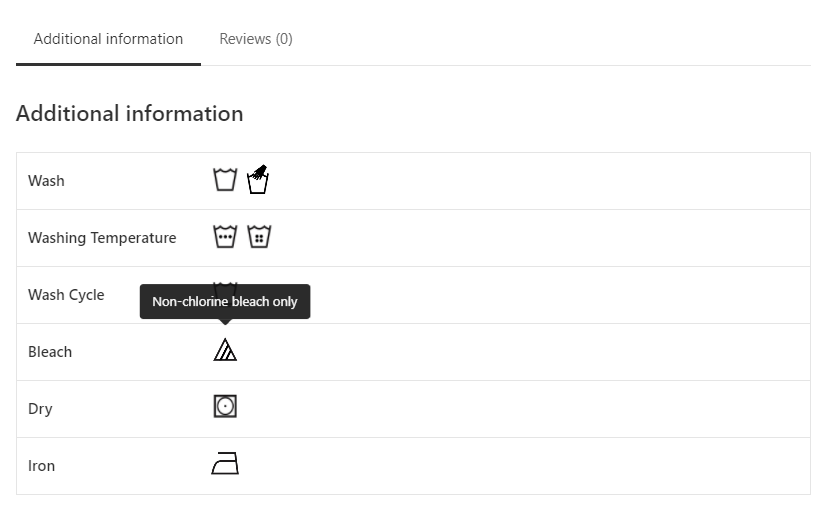
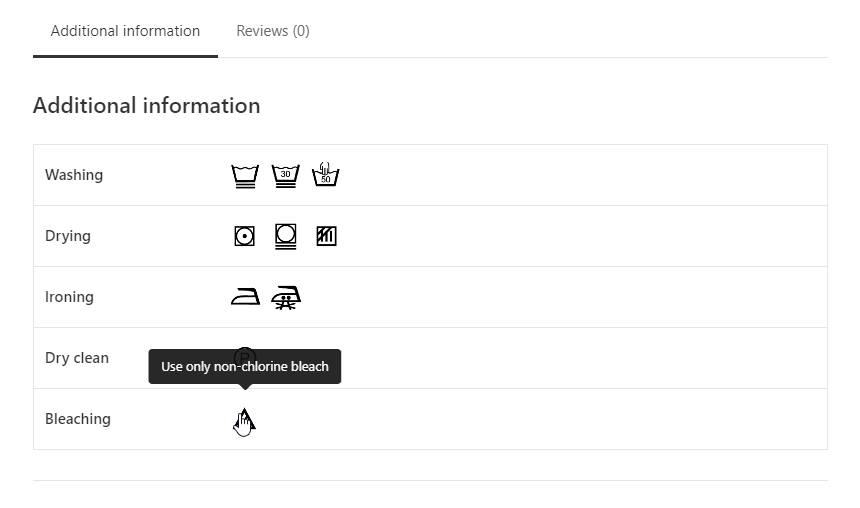
2.0.0 - New pictograms, more choices

diff --git a/assets/css/wcsfw.css b/assets/css/wcsfw.css
@@ -2,14 +2,14 @@
     width: 180px;
 }
 .wcsfw-symbol-btn {
-    background: none;
-    color: inherit;
-    border: none;
-    padding: 0;
-    font: inherit;
-    cursor: pointer;
-    outline: inherit;
+    background: none !important;
+    color: inherit !important;
+    border: none !important;
+    padding: 0 !important;
+    font: inherit !important;
+    cursor: pointer !important;
+    outline: inherit !important;
 }
 .wcsfw-symbol-img {
-    height: 34px;
+    height: 38px;
 }

diff --git a/wash-care-symbols-for-woocommerce.php b/wash-care-symbols-for-woocommerce.php
@@ -33,69 +33,108 @@ class WashCareSymbolsForWooCommerce {
 		 * Multidimensional array with all the choices, labels, and all necessary informations for the fields
 		 */
 		$this->values = [
-			'wcsfw_wash'         => [
-				'label'       => __( 'Wash', 'wcsfw' ),
-				'description' => __( 'Wash', 'wcsfw' ),
+			'wcsfw_washing'   => [
+				'label'       => __( 'Washing', 'wcsfw' ),
+				'description' => __( 'Washing', 'wcsfw' ),
 				'choices'     => [
-					'machine_wash' => __( 'Machine wash', 'wcsfw' ),
-					'hand_wash'    => __( 'Hand wash', 'wcsfw' ),
-					'do_not_wash'  => __( 'Do not wash', 'wcsfw' ),
+					'wash_1'  => __( 'Machine wash, gentle / delicate', 'wcsfw' ),
+					'wash_2'  => __( 'Machine wash, permanent press / wrinkle resistant', 'wcsfw' ),
+					'wash_3'  => __( 'Machine wash, regular / normal', 'wcsfw' ),
+					'wash_4'  => __( 'Do not wash', 'wcsfw' ),
+					'wash_5'  => __( 'Hand wash only', 'wcsfw' ),
+					'wash_6'  => __( 'Machine wash, gentle / delicate, 30 degrees C (85 degrees F)', 'wcsfw' ),
+					'wash_7'  => __( 'Machine wash, permanent press / wrinkle resistant, 30 degrees C (85 degrees F)', 'wcsfw' ),
+					'wash_8'  => __( 'Machine was h, regular / normal, 30 degrees C (85 degrees F)', 'wcsfw' ),
+					'wash_9'  => __( 'Machine wash, gentle / delicate, 40 degrees C (105 degrees F)', 'wcsfw' ),
+					'wash_10' => __( 'Machine wash, permanent press, 40 degrees C (105 degrees F)', 'wcsfw' ),
+					'wash_11' => __( 'Machine wash, regular / normal, 40 degrees C (105 degrees F)', 'wcsfw' ),
+					'wash_12' => __( 'Machine wash, gentle / delicate, 50 degrees C (120 degrees F)', 'wcsfw' ),
+					'wash_13' => __( 'Machine wash, permanent press, 50 degrees C (120 degrees F)', 'wcsfw' ),
+					'wash_14' => __( 'Machine wash, regular / normal, 50 degrees C (120 degrees F)', 'wcsfw' ),
+					'wash_15' => __( 'Machine wash, gentle / delicate, 60 degrees C (140 degrees F)', 'wcsfw' ),
+					'wash_16' => __( 'Machine wash, permanent press, 60 degrees C (140 degrees F)', 'wcsfw' ),
+					'wash_17' => __( 'Machine wash, regular / normal, 60 degrees C (140 degrees F)', 'wcsfw' ),
+					'wash_18' => __( 'Machine wash, gentle / delicate, 70 degrees C (160 degrees F)', 'wcsfw' ),
+					'wash_19' => __( 'Machine wash, permanent press, 70 degrees C (160 degrees F)', 'wcsfw' ),
+					'wash_20' => __( 'Machine wash, regular / normal, 70 degrees C (160 degrees F)', 'wcsfw' ),
+					'wash_21' => __( 'Machine wash, gentle / delicate, 95 degrees C (200 degrees F)', 'wcsfw' ),
+					'wash_22' => __( 'Machine wash, permanent press, 95 degrees C (200 degrees F)', 'wcsfw' ),
+					'wash_23' => __( 'Machine wash, regular / normal, 95 degrees C (200 degrees F)', 'wcsfw' ),
+					'wash_24' => __( 'Hand wash, 30 degrees C (85 degrees F)', 'wcsfw' ),
+					'wash_25' => __( 'Hand wash, 40 degrees C (105 degrees F)', 'wcsfw' ),
+					'wash_26' => __( 'Hand wash, 50 degrees C (120 degrees F)', 'wcsfw' ),
+
 				],
 			],
-			'wcsfw_washing_temp' => [
-				'label'       => __( 'Washing Temperature', 'wcsfw' ),
-				'description' => __( 'Washing Temperature', 'wcsfw' ),
+			'wcsfw_drying'    => [
+				'label'       => __( 'Drying', 'wcsfw' ),
+				'description' => __( 'Drying', 'wcsfw' ),
 				'choices'     => [
-					'washing_temperature_30' => __( 'Machine wash cold, 75F/30C', 'wcsfw' ),
-					'washing_temperature_40' => __( 'Machine wash warm, 105F/40C', 'wcsfw' ),
-					'washing_temperature_50' => __( 'Machine wash hot, 120F/50C', 'wcsfw' ),
-					'washing_temperature_60' => __( 'Machine wash hot, 140F/60C', 'wcsfw' ),
-					'washing_temperature_70' => __( 'Machine wash hot, 160F/70C', 'wcsfw' ),
-					'washing_temperature_95' => __( 'Machine wash hot, 200F/95C', 'wcsfw' ),
+					'drying_1'  => __( 'Tumble dry, normal', 'wcsfw' ),
+					'drying_2'  => __( 'Tumble dry, normal, low heat', 'wcsfw' ),
+					'drying_3'  => __( 'Tumble dry, normal, medium heat', 'wcsfw' ),
+					'drying_4'  => __( 'Tumble dry, normal, high heat', 'wcsfw' ),
+					'drying_5'  => __( 'Tumble dry, normal, no heat', 'wcsfw' ),
+					'drying_6'  => __( 'Tumble dry, permanent press', 'wcsfw' ),
+					'drying_7'  => __( 'Tumble dry, permanent press, low heat', 'wcsfw' ),
+					'drying_8'  => __( 'Tumble dry, permanent press, medium heat', 'wcsfw' ),
+					'drying_9'  => __( 'Tumble dry, permanent press, high heat', 'wcsfw' ),
+					'drying_10' => __( 'Tumble dry, gentle', 'wcsfw' ),
+					'drying_11' => __( 'Tumble dry, gentle, low heat', 'wcsfw' ),
+					'drying_12' => __( 'Tumble dry, gentle, medium heat', 'wcsfw' ),
+					'drying_13' => __( 'Tumble dry, gentle, high heat', 'wcsfw' ),
+					'drying_14' => __( 'Tumble dry, permanent press, no heat', 'wcsfw' ),
+					'drying_15' => __( 'Line dry', 'wcsfw' ),
+					'drying_16' => __( 'Drip dry', 'wcsfw' ),
+					'drying_17' => __( 'Dry flat', 'wcsfw' ),
+					'drying_18' => __( 'Dry in shade', 'wcsfw' ),
+					'drying_19' => __( 'Do not dry', 'wcsfw' ),
+					'drying_20' => __( 'Line dry in shade', 'wcsfw' ),
+					'drying_21' => __( 'Drip dry in shade', 'wcsfw' ),
+					'drying_22' => __( 'Dry flat in shade', 'wcsfw' ),
 				],
 			],
-			'wcsfw_wash_cycle'   => [
-				'label'       => __( 'Wash Cycle', 'wcsfw' ),
-				'description' => __( 'Wash Cycle', 'wcsfw' ),
+			'wcsfw_ironing'   => [
+				'label'       => __( 'Ironing', 'wcsfw' ),
+				'description' => __( 'Ironing', 'wcsfw' ),
 				'choices'     => [
-					'wash_cycle_delicate' => __( 'Delicate cycle', 'wcsfw' ),
+					'ironing_1' => __( 'Ironing required', 'wcsfw' ),
+					'ironing_2' => __( 'Iron, low temperature', 'wcsfw' ),
+					'ironing_3' => __( 'Iron, medium temperature', 'wcsfw' ),
+					'ironing_4' => __( 'Iron, high temperature', 'wcsfw' ),
+					'ironing_5' => __( 'Do not iron', 'wcsfw' ),
+					'ironing_6' => __( 'Iron, no steam', 'wcsfw' ),
+					'ironing_7' => __( 'Iron, no steam, low temperature', 'wcsfw' ),
+					'ironing_8' => __( 'Iron, no steam, medium temperature', 'wcsfw' ),
+					'ironing_9' => __( 'Iron, no steam, high temperature', 'wcsfw' ),
 				],
 			],
-			'wcsfw_bleach'       => [
-				'label'       => __( 'Bleach', 'wcsfw' ),
-				'description' => __( 'Bleach', 'wcsfw' ),
-				'choices'     => [
-					'bleach'                   => __( 'Bleach', 'wcsfw' ),
-					'do_not_bleach'            => __( 'Do not bleach', 'wcsfw' ),
-					'non_chlorine_bleach_only' => __( 'Non-chlorine bleach only', 'wcsfw' ),
-				],
-			],
-			'wcsfw_dry'          => [
-				'label'       => __( 'Dry', 'wcsfw' ),
-				'description' => __( 'Dry', 'wcsfw' ),
-				'choices'     => [
-					'dry'                    => __( 'Dry', 'wcsfw' ),
-					'tumble_dry_low_heat'    => __( 'Tumble dry, low heat', 'wcsfw' ),
-					'tumble_dry_medium_heat' => __( 'Tumble dry, medium heat', 'wcsfw' ),
-					'tumble_dry_high_heat'   => __( 'Tumble dry, high heat', 'wcsfw' ),
-					'do_not_dry'             => __( 'Do not dry!', 'wcsfw' ),
-					'do_not_tumble_dry'      => __( 'Do not tumble dry', 'wcsfw' ),
-				],
-			],
-			'wcsfw_iron'         => [
-				'label'       => __( 'Iron', 'wcsfw' ),
-				'description' => __( 'Iron', 'wcsfw' ),
-				'choices'     => [
-					'iron'        => __( 'Iron', 'wcsfw' ),
-					'do_not_iron' => __( 'Do not iron!', 'wcsfw' ),
-				],
-			],
-			'wcsfw_dry_clean'    => [
+			'wcsfw_dry_clean' => [
 				'label'       => __( 'Dry clean', 'wcsfw' ),
 				'description' => __( 'Dry clean', 'wcsfw' ),
 				'choices'     => [
-					'dry_clean'        => __( 'Dry clean', 'wcsfw' ),
-					'do_not_dry_clean' => __( 'Do not dry clean!', 'wcsfw' ),
+					'dry_cleaning_1'  => __( 'Dry clean', 'wcsfw' ),
+					'dry_cleaning_2'  => __( 'Dry clean, any solvent', 'wcsfw' ),
+					'dry_cleaning_3'  => __( 'Dry clean, petroleum based solvent only', 'wcsfw' ),
+					'dry_cleaning_4'  => __( 'Dry clean, any solvent other than trichloroethylene', 'wcsfw' ),
+					'dry_cleaning_5'  => __( 'Do not dry clean', 'wcsfw' ),
+					'dry_cleaning_6'  => __( 'Dry clean, short cycle', 'wcsfw' ),
+					'dry_cleaning_7'  => __( 'Dry clean, low moisture', 'wcsfw' ),
+					'dry_cleaning_8'  => __( 'Dry clean, low heat', 'wcsfw' ),
+					'dry_cleaning_9'  => __( 'Dry clean, no steam', 'wcsfw' ),
+					'dry_cleaning_10' => __( 'Dry clean, any solvent, short cycle', 'wcsfw' ),
+					'dry_cleaning_11' => __( 'Dry clean, any solvent, low moisture', 'wcsfw' ),
+					'dry_cleaning_12' => __( 'Dry clean, any solvent, low heat', 'wcsfw' ),
+					'dry_cleaning_13' => __( 'Dry clean, any solvent, no steam', 'wcsfw' ),
+				],
+			],
+			'wcsfw_bleaching'    => [
+				'label'       => __( 'Bleaching', 'wcsfw' ),
+				'description' => __( 'Bleaching', 'wcsfw' ),
+				'choices'     => [
+					'bleaching_1' => __('Use any bleach', 'wcsfw'),
+                    'bleaching_2' => __('Use only non-chlorine bleach', 'wcsfw'),
+                    'bleaching_3' => __('Do not bleach', 'wcsfw'),
 				],
 			],
 		];
